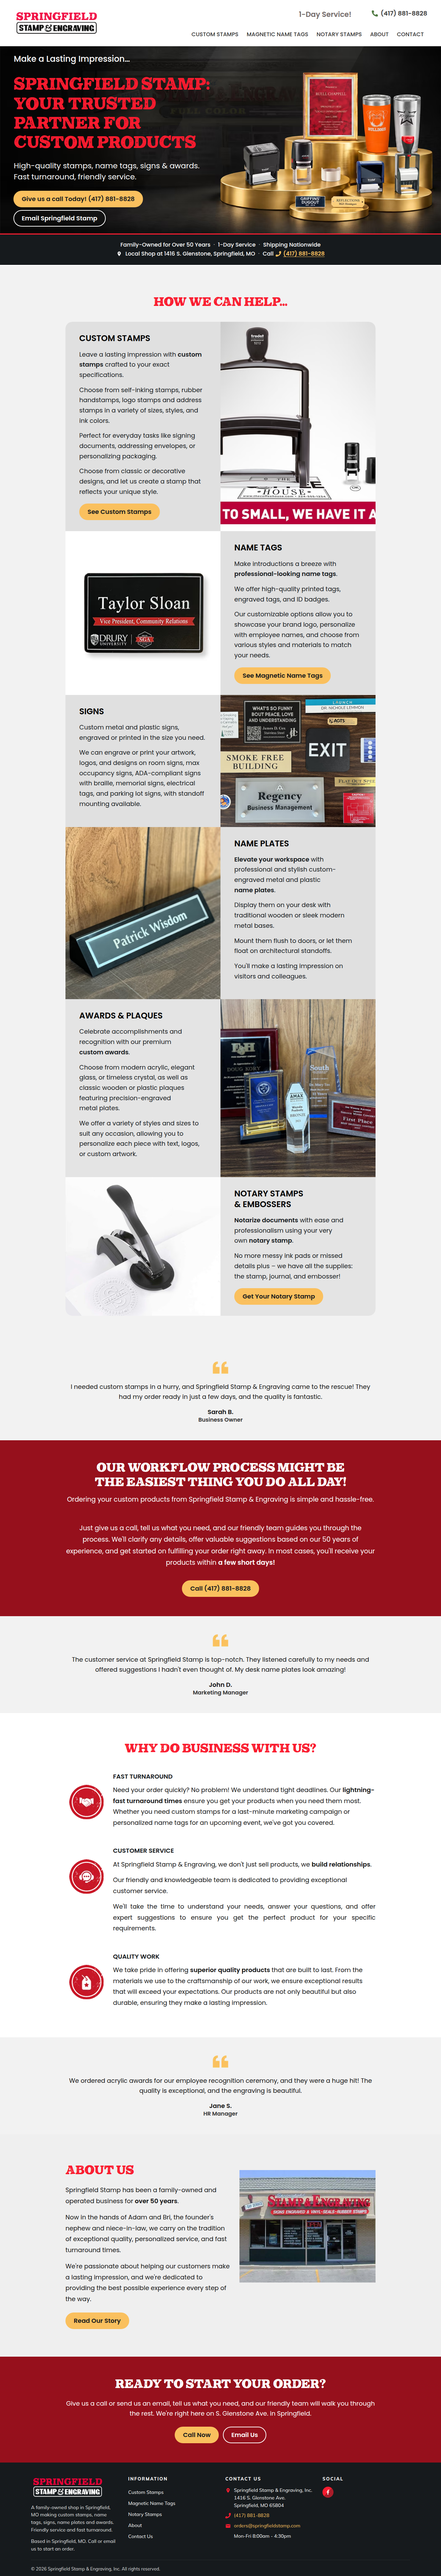
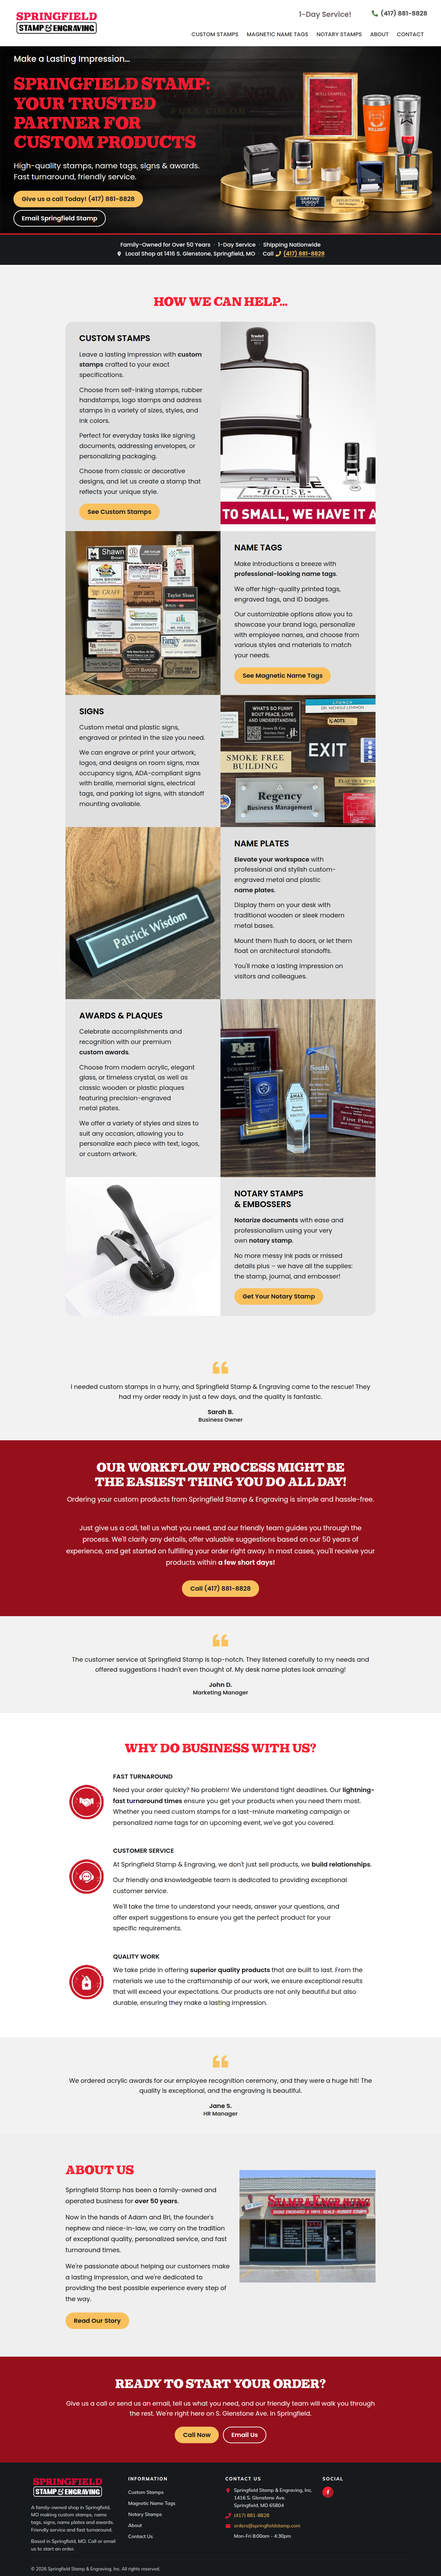
Show cut-out products at their own shape and split the name-tag strip.
Drop the justified Customer Service paragraph, put the Magnetic sections back on the 900px column, and use the wall photo for the homepage Name Tags row.

Changed region(s): [[0.125, 0.1872, 0.5, 0.2808], [0.3125, 0.7175, 0.375, 0.7487]]

diff --git a/src/lib/home-images.ts b/src/lib/home-images.ts
@@ -1,6 +1,6 @@
 // Pictures used only by the home page (live desktop mapping, used at every width).
 import customStamps from "../assets/custom-stamps-2026.jpg";
-import magneticNameTags from "../assets/springfield-logo-magnetic-tags-2.png";
+import magneticNameTags from "../assets/springfield-stamp-name-tags.jpg";
 import deskNamePlates from "../assets/desk-name-plate.webp";
 import signs from "../assets/signs.jpg";
 import awardsPlaques from "../assets/awards-plaques.jpg";

diff --git a/src/data/home.ts b/src/data/home.ts
@@ -77,7 +77,7 @@ export const home: {
         ],
         image: "magneticNameTags",
         imageAlt:
-          "Black magnetic name tag reading Taylor Sloan, Vice President, Community Relations, with a university logo",
+          "Wall display of many sample name tags in different colors, shapes and materials, including wood, metal and photo ID badges",
         cta: { label: "See Magnetic Name Tags", href: "/magnetic-name-tags/" },
       },
       {
